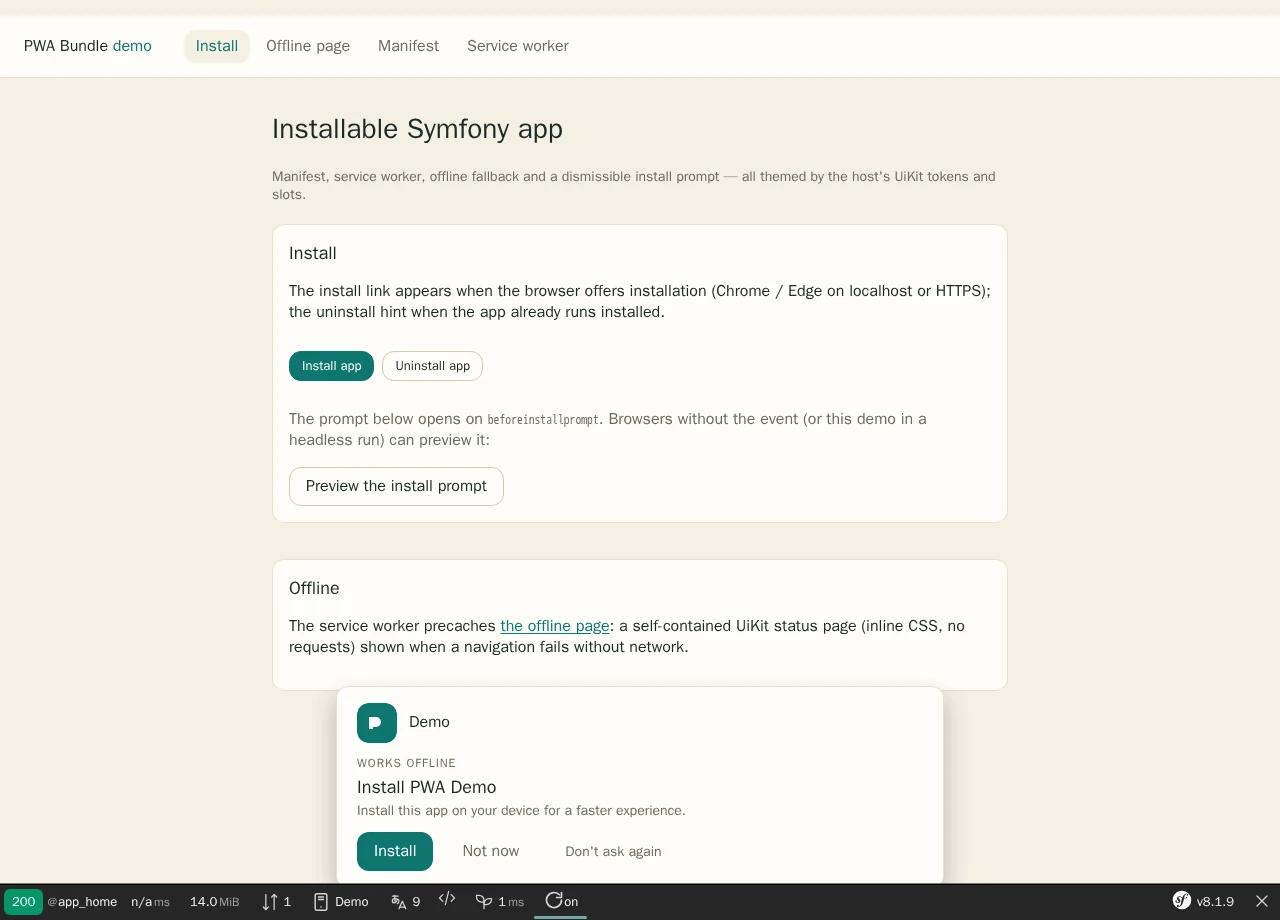
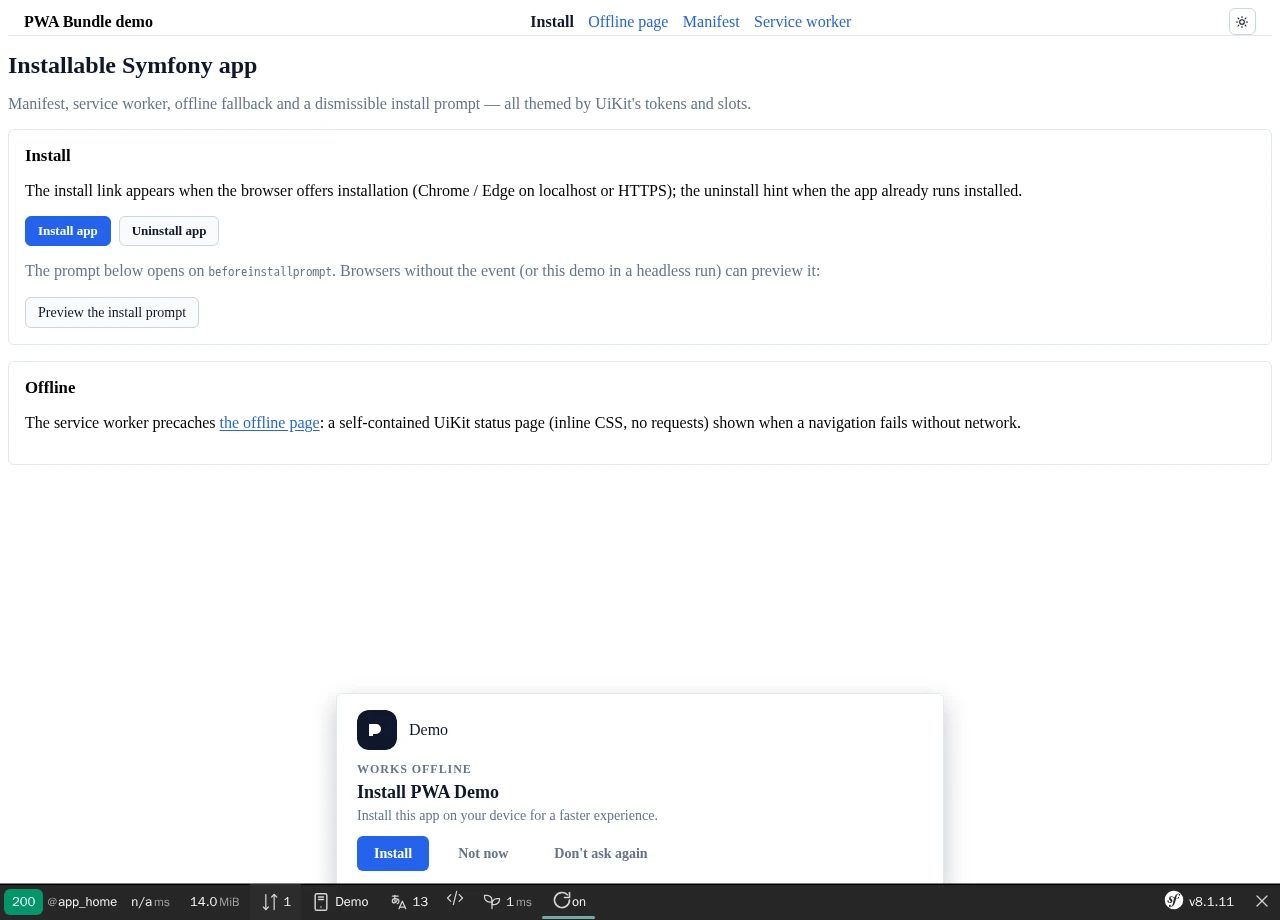
chore(demo): run the demo on UiKit's default theme (REQ-DEMO-014)
The demo requires nowo-tech/ui-kit-bundle, its shell is UiKit's admin layout with the UiKit
masthead and theme toggle, and nowo_ui_kit no longer overrides the theme tokens or the
button and card classes. The hand-written masthead stylesheet is removed; e2e selectors and
the two WebP screenshots follow.

diff --git a/demo/symfony8/e2e/tests/demo.spec.ts b/demo/symfony8/e2e/tests/demo.spec.ts
@@ -2,7 +2,7 @@ import { test, expect } from '@playwright/test';
 
 /** REQ-DEMO-013 — the PWA demo boots, serves manifest / service worker / offline page and shows the install prompt. */
 test.describe('PWA demo', () => {
-  test('home page links the manifest and themes the install prompt', async ({ page }) => {
+  test('home page links the manifest and shows the install prompt', async ({ page }) => {
     await page.goto('/');
     await expect(page.getByRole('heading', { name: 'Installable Symfony app' })).toBeVisible();
     await expect(page.locator('link[rel="manifest"]')).toHaveAttribute('href', '/manifest.webmanifest');
@@ -11,11 +11,11 @@ test.describe('PWA demo', () => {
     await expect(prompt).toBeHidden();
     await page.getByTestId('demo-preview-prompt').click();
     await expect(prompt).toBeVisible();
-    await expect(prompt.locator('.nowo-pwa-install__panel')).toHaveClass(/nowo-ui-card demo-card/);
+    await expect(prompt.locator('.nowo-pwa-install__panel')).toHaveClass(/nowo-ui-card/);
     await expect(prompt.getByRole('heading', { name: 'Install PWA Demo' })).toBeVisible();
-    await expect(prompt.getByRole('button', { name: 'Install', exact: true })).toHaveClass(/demo-btn--primary/);
+    await expect(prompt.getByRole('button', { name: 'Install', exact: true })).toHaveClass(/nowo-ui-btn--primary/);
     // Host override of one block (pwa_install_mark), the rest from the bundle.
-    await expect(prompt.locator('.demo-mark')).toBeVisible();
+    await expect(prompt.locator('.nowo-pwa-install__mark')).toBeVisible();
     await prompt.getByRole('button', { name: 'Not now' }).click();
     await expect(prompt).toBeHidden();
   });

diff --git a/docs/CHANGELOG.md b/docs/CHANGELOG.md
@@ -45,6 +45,10 @@ and this project adheres to [Semantic Versioning](https://semver.org/spec/v2.0.0
 
 ## [Unreleased]
 
+### Demo
+
+- REQ-DEMO-014: the demo requires `nowo-tech/ui-kit-bundle` `^2.53` and runs on UiKit's default theme: `templates/base.html.twig` extends UiKit's admin layout with the UiKit masthead and theme toggle (the hand-written masthead and `demo.css` are gone), and `nowo_ui_kit` no longer overrides the theme tokens or the button / card classes. The install prompt and the offline page follow UiKit's default tokens. No bundle runtime change.
+
 ### Changed
 
 - Demo `.gitignore` ignores `/.pnpm-store` (REQ-GITIGNORE-003)

diff --git a/README.md b/README.md
@@ -15,7 +15,7 @@ This includes running when the kernel is **not** rebooted between requests (`res
 <table>
   <tr>
     <td align="center" width="50%">
-      <img src="docs/images/demo/overview.webp" alt="Install prompt open over the demo page, themed by the host UiKit tokens and slots" />
+      <img src="docs/images/demo/overview.webp" alt="Install prompt open over the demo page, on UiKit's default theme" />
       <br /><sub>Install prompt — host UiKit theme, brand mark from a one-block override</sub>
     </td>
     <td align="center" width="50%">
